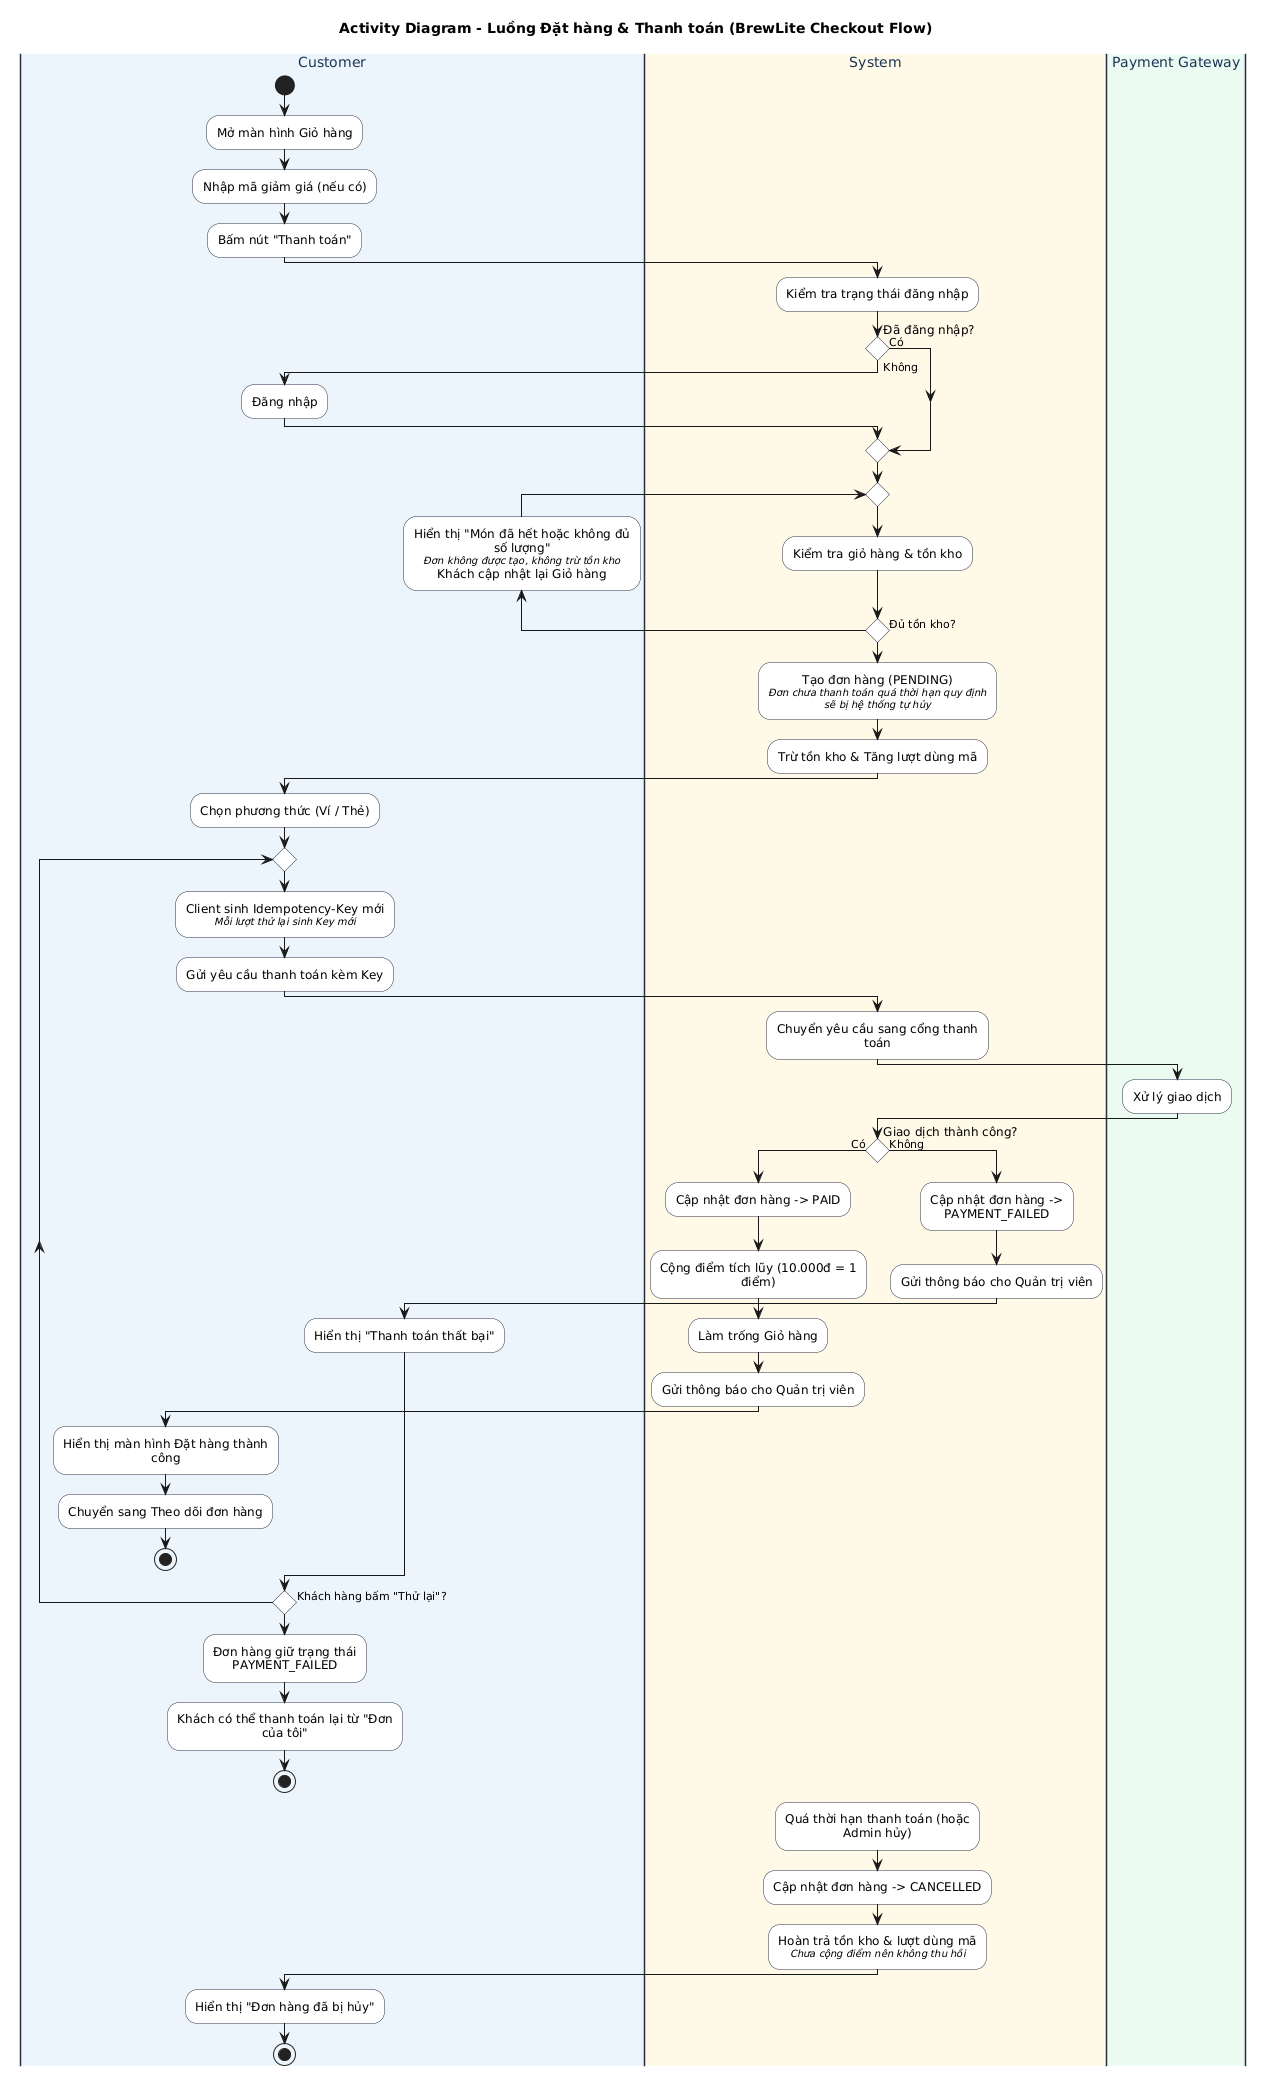
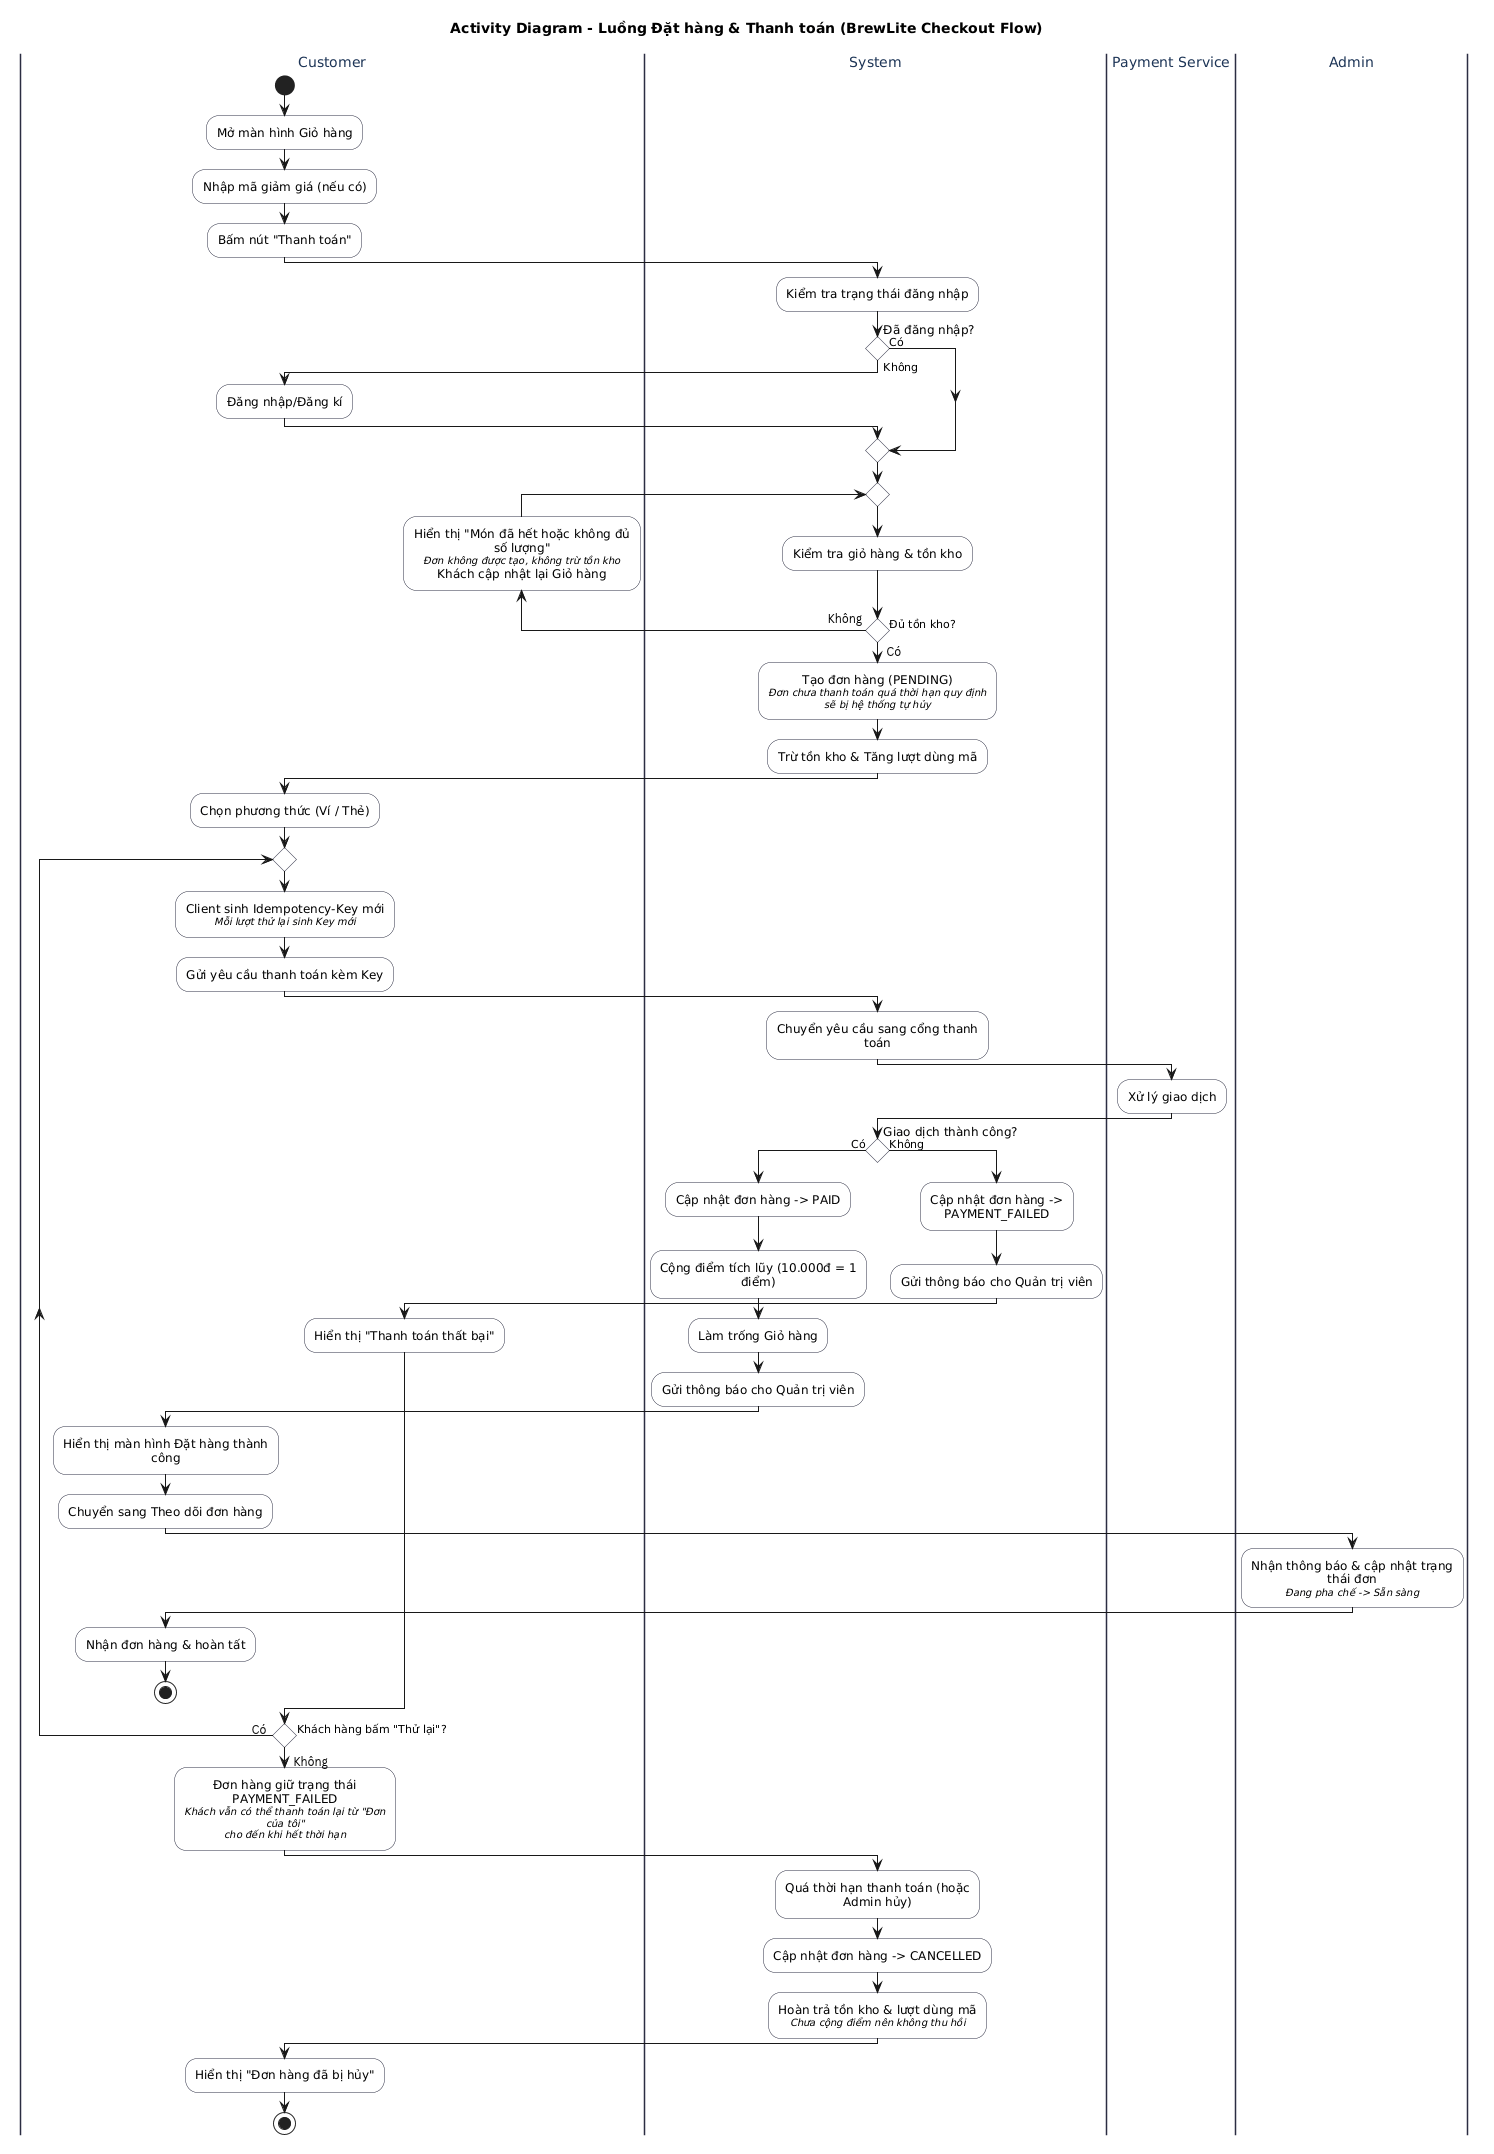
docs(diagrams): update activity diagram for BrewLite Checkout Flow to include Admin role and clarify payment process

diff --git a/docs/architecture/activity-checkout.md b/docs/architecture/activity-checkout.md
@@ -14,7 +14,7 @@ Sơ đồ mô tả luồng hoạt động end-to-end từ lúc khách hàng bấ
 Sơ đồ thể hiện đủ các yêu cầu của Task 2.1:
 
 - có điểm bắt đầu và các điểm kết thúc (thanh toán thành công, đơn giữ `PAYMENT_FAILED`, đơn bị hủy);
-- phân làn theo ba tác nhân: **Customer**, **System**, **Payment Gateway**;
+- phân làn theo bốn tác nhân: **Customer**, **System**, **Payment Service**, **Admin**;
 - có các nút quyết định (rẽ nhánh **Có** hoặc **Không**) và vòng lặp cho nhánh thành công và thất bại;
 - có đủ ba tình huống bắt buộc: **chưa đăng nhập**, **hết hàng**, **thanh toán thất bại**.
 
@@ -48,9 +48,10 @@ skinparam DefaultTextAlignment center
 
 title Activity Diagram - Luồng Đặt hàng & Thanh toán (BrewLite Checkout Flow)
 
-|#EBF5FB|Customer|
-|#FEF9E7|System|
-|#EAFAF1|Payment Gateway|
+|Customer|
+|System|
+|Payment Service|
+|Admin|
 
 |Customer|
 start
@@ -62,25 +63,23 @@ start
 |System|
 :Kiểm tra trạng thái đăng nhập;
 
-' SỬA LẠI ĐIỀU KIỆN ĐĂNG NHẬP ĐỂ HIỂN THỊ RÕ CÓ/KHÔNG
 if (Đã đăng nhập?) then (Có)
   ' Đã đăng nhập thì đi tiếp
 else (Không)
   |Customer|
-  :Đăng nhập;
+  :Đăng nhập/Đăng kí;
   |System|
 endif
 
 repeat
   |System|
   :Kiểm tra giỏ hàng & tồn kho;
-  
+
   |Customer|
 backward: Hiển thị "Món đã hết hoặc không đủ số lượng"
 <size:10><i>Đơn không được tạo, không trừ tồn kho
 Khách cập nhật lại Giỏ hàng;
   |System|
-' SỬA NHÃN VÒNG LẶP TỒN KHO THÀNH KHÔNG / CÓ
 repeat while (Đủ tồn kho?) is (Không) not (Có)
 
 :Tạo đơn hàng (PENDING)
@@ -99,9 +98,9 @@ repeat
   :Gửi yêu cầu thanh toán kèm Key;
 
   |System|
-  :Chuyển yêu cầu sang cổng thanh toán;
+  :Chuyển yêu cầu sang Payment Service;
 
-  |Payment Gateway|
+  |Payment Service|
   :Xử lý giao dịch;
 
   |System|
@@ -114,6 +113,13 @@ repeat
     |Customer|
     :Hiển thị màn hình Đặt hàng thành công;
     :Chuyển sang Theo dõi đơn hàng;
+
+    |Admin|
+    :Nhận thông báo & cập nhật trạng thái đơn
+    <size:10><i>Đang pha chế -> Sẵn sàng;
+
+    |Customer|
+    :Nhận đơn hàng & hoàn tất;
     stop
   else (Không)
     |System|
@@ -123,14 +129,13 @@ repeat
     |Customer|
     :Hiển thị "Thanh toán thất bại";
   endif
-' NHÃN VÒNG LẶP THỬ LẠI ĐÃ CHUẨN CÓ / KHÔNG
 repeat while (Khách hàng bấm "Thử lại"?) is (Có) not (Không)
 
 ' ===== KHÔNG THỬ LẠI =====
 |Customer|
-:Đơn hàng giữ trạng thái PAYMENT_FAILED;
-:Khách có thể thanh toán lại từ "Đơn của tôi";
-stop
+:Đơn hàng giữ trạng thái PAYMENT_FAILED
+<size:10><i>Khách vẫn có thể thanh toán lại từ "Đơn của tôi"
+<size:10><i>cho đến khi hết thời hạn;
 
 ' ===== NHÁNH HỦY ĐƠN (Xử lý ngầm định) =====
 |System|
@@ -151,9 +156,10 @@ stop
 
 | Làn | Vai trò trong luồng | Hoạt động chính |
 |---|---|---|
-| **Customer** (khách hàng, giao diện web/PWA) | Khởi tạo và hoàn tất các thao tác của người dùng | Mở giỏ, nhập mã giảm giá, bấm "Thanh toán", đăng nhập, cập nhật giỏ, chọn Ví/Thẻ, sinh `Idempotency-Key`, gửi yêu cầu thanh toán, xem kết quả, bấm "Thử lại" |
-| **System** (BrewLite) | Kiểm tra nghiệp vụ, ghi nhận dữ liệu, điều phối thanh toán | Kiểm tra đăng nhập, giỏ hàng và tồn kho, tạo đơn, trừ tồn kho, chuyển yêu cầu sang cổng thanh toán, cập nhật trạng thái đơn, tích điểm, làm trống giỏ, thông báo cho quản trị viên, hủy đơn (quá hạn thanh toán hoặc Admin hủy) và hoàn trả |
-| **Payment Gateway** (cổng thanh toán mô phỏng) | Xử lý giao dịch Ví/Thẻ | Nhận yêu cầu, xử lý và trả kết quả thành công hoặc thất bại |
+| **Customer** (khách hàng, giao diện web/PWA) | Khởi tạo và hoàn tất các thao tác của người dùng | Mở giỏ, nhập mã giảm giá, bấm "Thanh toán", đăng nhập, cập nhật giỏ, chọn Ví/Thẻ, sinh `Idempotency-Key`, gửi yêu cầu thanh toán, xem kết quả, bấm "Thử lại", nhận đơn hàng |
+| **System** (BrewLite) | Kiểm tra nghiệp vụ, ghi nhận dữ liệu, điều phối thanh toán | Kiểm tra đăng nhập, giỏ hàng và tồn kho, tạo đơn, trừ tồn kho, chuyển yêu cầu sang Payment Service, cập nhật trạng thái đơn, tích điểm, làm trống giỏ, thông báo cho quản trị viên, hủy đơn (quá hạn thanh toán hoặc Admin hủy) và hoàn trả |
+| **Payment Service** (dịch vụ thanh toán mô phỏng) | Xử lý giao dịch Ví/Thẻ | Nhận yêu cầu, xử lý và trả kết quả thành công hoặc thất bại |
+| **Admin** (quản trị viên) | Tiếp nhận và xử lý đơn đã thanh toán | Nhận thông báo, cập nhật trạng thái đơn (Đang pha chế → Sẵn sàng) |
 
 ---
 
@@ -180,13 +186,14 @@ stop
 ### 4.4. Vòng lặp thanh toán
 
 8. Ứng dụng phía khách sinh một `Idempotency-Key` và gửi yêu cầu thanh toán kèm khóa này. Khi khách bấm "Thử lại", một khóa **mới** được sinh. Khi cùng một lần thanh toán bị gửi lặp (bấm đúp, mạng chậm), khóa giữ nguyên nên hệ thống nhận ra và chỉ tính tiền một lần.
-9. Hệ thống chuyển yêu cầu sang cổng thanh toán; cổng xử lý giao dịch và trả kết quả.
+9. Hệ thống chuyển yêu cầu sang Payment Service; Payment Service xử lý giao dịch và trả kết quả.
 10. **Giao dịch thành công (Có):**
     - đơn chuyển `PAID`;
     - cộng điểm tích lũy theo quy tắc 10.000đ = 1 điểm;
     - làm trống giỏ hàng;
     - gửi thông báo cho quản trị viên;
-    - khách thấy màn hình "Đặt hàng thành công" và được chuyển sang theo dõi đơn hàng. **Kết thúc luồng.**
+    - khách thấy màn hình "Đặt hàng thành công" và được chuyển sang theo dõi đơn hàng;
+    - Admin nhận thông báo và cập nhật trạng thái đơn (Đang pha chế → Sẵn sàng); khách nhận đơn hàng và hoàn tất. **Kết thúc luồng.**
 11. **Giao dịch thất bại (Không):**
     - đơn chuyển `PAYMENT_FAILED`;
     - gửi thông báo cho quản trị viên;
@@ -195,7 +202,7 @@ stop
 
 ### 4.5. Khách không thử lại và nhánh hủy đơn
 
-13. **Khách không bấm "Thử lại" (Không):** hệ thống không hủy đơn ngay. Đơn giữ trạng thái `PAYMENT_FAILED`; khách có thể thanh toán lại từ "Đơn của tôi". **Kết thúc nhánh này.**
+13. **Khách không bấm "Thử lại" (Không):** hệ thống không hủy đơn ngay. Đơn giữ trạng thái `PAYMENT_FAILED`; khách vẫn có thể thanh toán lại từ "Đơn của tôi" cho đến khi hết thời hạn thanh toán.
 14. **Nhánh hủy đơn (xử lý ngầm định):** đơn chưa thanh toán bị hủy khi quá thời hạn thanh toán hoặc khi Admin hủy. Hệ thống cập nhật đơn sang `CANCELLED`, hoàn trả tồn kho và lượt dùng mã giảm giá. Do đơn chưa thanh toán thành công nên chưa cộng điểm và không cần thu hồi điểm. Khách thấy "Đơn hàng đã bị hủy". **Kết thúc luồng.**
 
 Nhánh hủy đơn không nối bằng mũi tên từ các bước trên vì việc hủy xảy ra theo thời gian hoặc do Admin, độc lập với thao tác của khách.
@@ -210,7 +217,7 @@ Mỗi nút quyết định trên sơ đồ có hai nhánh **Có** và **Không**
 |---|---|---|---|
 | Đã đăng nhập? | Khách có phiên đăng nhập hợp lệ | Tiếp tục kiểm tra giỏ hàng | Khách đăng nhập rồi tiếp tục |
 | Đủ tồn kho? | Mọi món trong giỏ còn đủ số lượng | Tạo đơn `PENDING` | Báo hết hàng, khách cập nhật giỏ, **quay lại bước kiểm tra giỏ hàng & tồn kho** |
-| Giao dịch thành công? | Cổng thanh toán xác nhận thành công | Đơn `PAID`, kết thúc thành công | Đơn `PAYMENT_FAILED`, báo lỗi cho khách |
+| Giao dịch thành công? | Payment Service xác nhận thành công | Đơn `PAID`, kết thúc thành công | Đơn `PAYMENT_FAILED`, báo lỗi cho khách |
 | Khách bấm "Thử lại"? | Khách chọn thanh toán lại | Quay lại vòng lặp thanh toán | Đơn giữ `PAYMENT_FAILED`; khách có thể thanh toán lại từ "Đơn của tôi" |
 
 ---
@@ -246,7 +253,7 @@ Các ngoại lệ chi tiết hơn (mã giảm giá không dùng được, thanh 
   (PENDING cũng chuyển sang CANCELLED khi quá hạn thanh toán hoặc Admin hủy)
 ```
 
-*(Ghi chú: Sơ đồ mô tả phạm vi từ lúc đặt đơn đến khi thanh toán thành công hoặc đơn bị hủy khi chưa thanh toán. Quy trình pha chế và giao nhận đồ uống sau trạng thái `PAID` không thuộc phạm vi của sơ đồ hoạt động này.)*
+*(Ghi chú: Sơ đồ mô tả phạm vi từ lúc đặt đơn đến khi thanh toán thành công hoặc đơn bị hủy khi chưa thanh toán. Sau `PAID`, sơ đồ chỉ thể hiện Admin cập nhật trạng thái đơn ở mức tóm tắt (Đang pha chế → Sẵn sàng) và khách nhận đơn; chi tiết xử lý đơn thuộc FR-08.)*
 
 ---
 
@@ -263,5 +270,6 @@ Cột **Mã Yêu cầu** ghi mã yêu cầu chức năng (FR-xx) và yêu cầu 
 | Chọn phương thức, gửi yêu cầu kèm `Idempotency-Key` | FR-06; NFR-05 | AC-06.7, AC-06.11, AC-N05.3 | Mỗi lần thanh toán có một khóa riêng; gửi lặp cùng khóa chỉ bị tính tiền một lần |
 | Thanh toán thành công | FR-06; NFR-02 | AC-06.1, AC-06.2, AC-06.3, AC-06.4, AC-N02.5 | Đơn chuyển `PAID`; điểm tích lũy được cộng; giỏ hàng được làm trống; quản trị viên được thông báo; khách thấy màn hình đặt hàng thành công |
 | Thanh toán thất bại và thử lại | FR-06, FR-07; NFR-03, NFR-05 | AC-06.5, AC-06.6, AC-06.13, AC-07.7, AC-N03.4 | Đơn chuyển `PAYMENT_FAILED`; quản trị viên được thông báo; khách thấy lỗi, có thể thử lại bằng khóa mới hoặc thanh toán lại từ "Đơn của tôi" |
+| Admin nhận thông báo, cập nhật trạng thái đơn; khách nhận đơn | FR-07, FR-08; NFR-02 | AC-06.4, AC-08.12 | Admin thấy đơn chờ pha chế và chuyển Đang pha chế → Sẵn sàng; khách nhận đơn và hoàn tất |
 | Chuyển sang theo dõi đơn | FR-07; NFR-02 | AC-07.1, AC-07.2, AC-07.4, AC-N02.2 | Khách xem được trạng thái đơn vừa đặt |
 | Hủy đơn (quá hạn thanh toán hoặc Admin hủy), hoàn trả | FR-07, FR-08; NFR-05 | AC-08.7, AC-07.8 | Đơn chuyển `CANCELLED`; tồn kho và lượt dùng mã được hoàn trả; không thu hồi điểm vì chưa cộng; khách thấy trạng thái "Đã hủy" |
